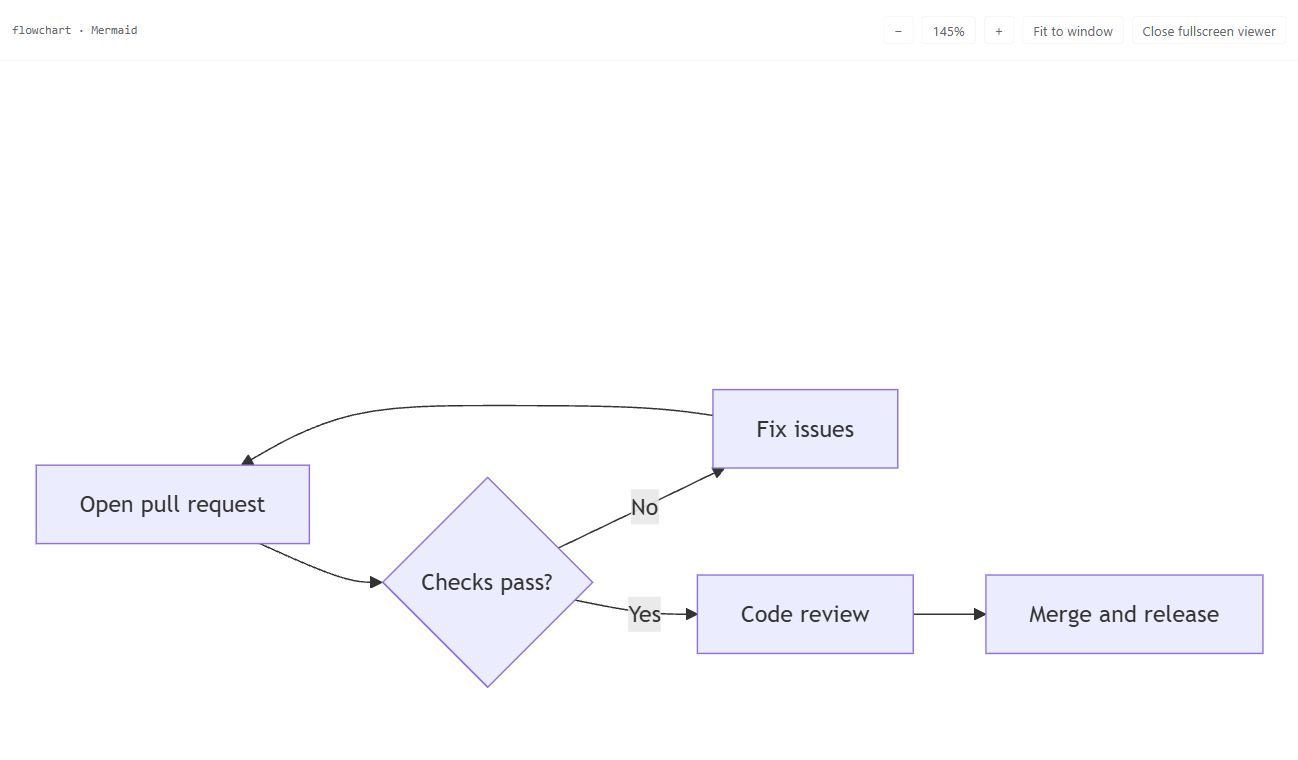
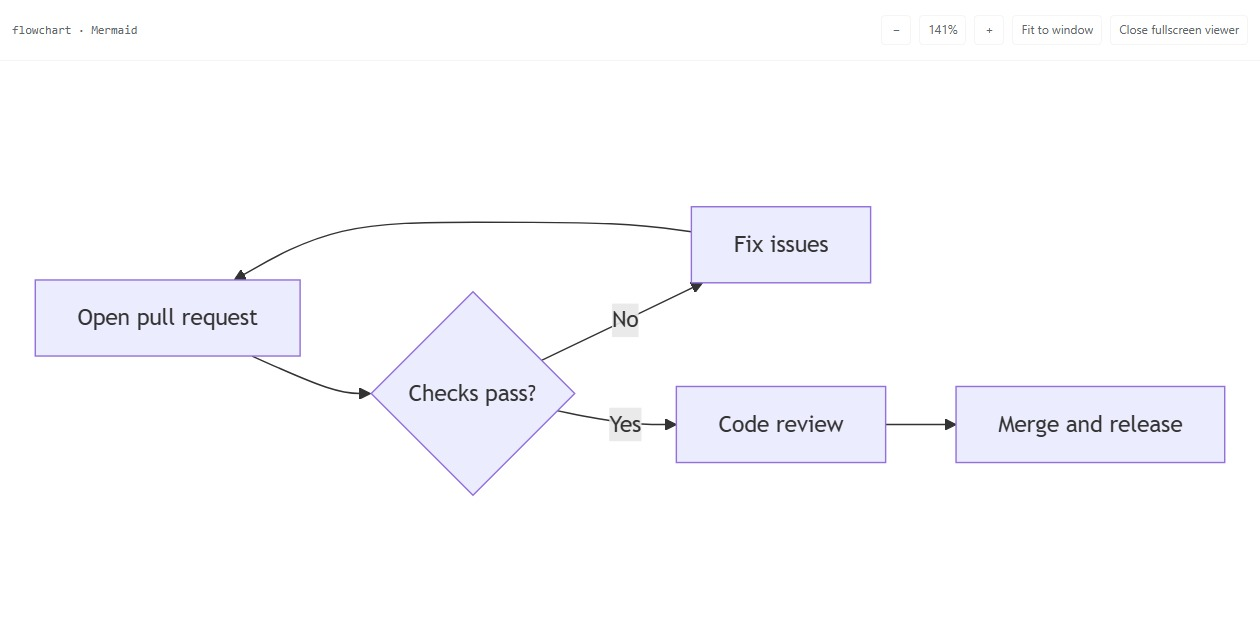
docs: refresh Mermaid screenshots and installation guide

diff --git a/README.md b/README.md
@@ -6,7 +6,7 @@ Render Mermaid code blocks as interactive SVG diagrams in **DeepSeek Harness Web
 
 [![npm version](https://img.shields.io/npm/v/dsh-mermaid.svg)](https://www.npmjs.com/package/dsh-mermaid)
 
-![English Mermaid diagram in a DSH conversation, with Code / Diagram, Fullscreen, and Download SVG controls](docs/images/conversation-en.jpg)
+![A Mermaid card with Diagram, Code and Edit tabs, canvas zoom, Fullscreen and an Export menu](docs/images/conversation-en.jpg)
 
 An English pull request workflow rendered in a DSH conversation. [View the Mermaid source](docs/examples/pull-request-workflow.mmd).
 
@@ -16,7 +16,7 @@ Requires DeepSeek Harness (DSH) and **Node.js 22.19 or later**. Commands below u
 
 ### 1. Install
 
-The npm release (`0.4.5`) supports diagram and code views, fullscreen, and SVG downloads. Inline editing, `.mmd` and PNG downloads, and rendering-style settings are covered below for the unreleased source build. See [Advanced usage](#advanced-usage) to install from GitHub.
+The screenshots and walkthrough use the current repository build. The npm `0.4.5` release includes Diagram and Code views, fullscreen, and SVG downloads. If your installed version lacks a feature shown here, see the [changelog](CHANGELOG.md) or [install the repository build](#advanced-usage).
 
 With a global `dsh` command, install the npm release into your Web profile:
 
@@ -30,7 +30,11 @@ If `dsh` is not on your PATH, invoke it through npx:
 npx.cmd --yes @deepseek-ai/dsh plugin --profile web add -w dsh-mermaid
 ```
 
-For **DSH Desktop**, use the `dsh` command supplied by the Desktop installation and replace `--profile web` with `--profile desktop`. The npm/npx DSH CLI cannot manage the reserved `desktop` profile on current Desktop versions. If the bundled command is not on your PATH, invoke `<DSH Desktop installation>\resources\runtime\cli\bin\dsh.cmd` on Windows.
+For **DSH Desktop** on Windows, use the CLI bundled with the app to manage its `desktop` profile. Replace `<DSH Desktop installation>` with your installation directory.
+
+```powershell
+& '<DSH Desktop installation>\resources\runtime\cli\bin\dsh.cmd' plugin --profile desktop add -w dsh-mermaid
+```
 
 DSH installs the package through pnpm and automatically registers its `dsh.bundle` declaration in the selected profile. Restart DSH Web or DSH Desktop after installation; for an already running Web session, refresh the browser page as well.
 
@@ -49,11 +53,11 @@ flowchart LR
 
 The block opens in **Diagram** view by default. Use **Diagram / Code / Edit** at the left of the card header to switch views. The plugin also recognizes `mermaidjs` and `mmd` fences; inline code is left unchanged.
 
-On hosts with the Markdown fence slot, an active reply shows the host's source block until generation finishes. Unlabelled fences can still be recognized from their Mermaid source. In **Code** view, source updates are shown immediately and the preview updates when you open **Diagram** or **Edit**.
+On hosts with the Markdown fence slot, a valid diagram can appear while the reply streams. The host's source remains visible until the first preview. Subsequent incomplete updates keep the last valid preview in place. Unlabelled fences can still be recognized from their Mermaid source. In **Code** view, source updates are shown immediately and the preview updates when you open **Diagram** or **Edit**.
 
 On older hosts, an incomplete code block can stay in **Diagram** while more source arrives. Open **Edit** to check its syntax immediately. Diagram previews are queued when their cards approach the viewport.
 
-### 3. Edit the source (source build)
+### 3. Edit the source
 
 - **Edit** opens a source panel alongside the diagram preview. On narrow cards the preview moves below the source. Changes re-render after a short debounce, and rendering messages appear in the preview panel.
 - The draft is local to this page and is never written back to the sent message. Refreshing the page or rebuilding the card discards it.
@@ -61,27 +65,35 @@ On older hosts, an incomplete code block can stay in **Diagram** while more sour
 - **Edit** remains available on errors. With a host-confirmed final code block, an initial syntax error opens **Edit** automatically.
 - Syntax errors show a line number when Mermaid reports one. Expand **Error details** for the full parser message.
 
-### 4. Explore and export
+![The inline editor with Mermaid source on the left and a live top-down diagram preview on the right](docs/images/editor-en.jpg)
 
-PNG and `.mmd` downloads, and inline canvas controls in this section require the source build.
+### 4. Explore and export
 
 - Wide diagrams open at a readable scale and can overflow the canvas. Use **− / Fit card / +** above the preview in **Diagram** and **Edit**. Double-click the canvas to zoom in or reset to fit. Zooming keeps the card height steady. Drag an overflowing diagram to pan horizontally or vertically.
 - **Fullscreen**, above the preview in **Diagram** and **Edit**, opens a viewer with mouse-wheel zoom, dragging, 100% reset, and fit-to-window controls. Press `Esc` to close it.
-- Open **Export** in the card header to download the entire diagram as SVG or PNG, or the current source as `.mmd`. The preview, fullscreen view, SVG and background PNG use the diagram palette's white or black background. Transparent PNG is also available. PNG uses up to 2× the SVG dimensions, subject to an 8,192-pixel edge and 16-megapixel area limit. File names include a short suffix derived from the source.
-- Fullscreen, SVG, and PNG require an up-to-date preview. The `.mmd` download remains available while the draft is rendering or contains an error.
+- Pinch to zoom and double-tap to toggle zoom on touchscreens, in the card and fullscreen.
+- Open **Export** in the card header to download the entire diagram as SVG or PNG, or the current source as `.mmd`. The preview, fullscreen view, SVG and background PNG use the diagram palette's white or black background. Transparent PNG is also available. PNG uses up to 3× the SVG dimensions, subject to an 8,192-pixel edge and 16-megapixel area limit. File names include a short suffix derived from the source.
+- Fullscreen, SVG, and PNG require an up-to-date preview after the response has finished generating. The `.mmd` download remains available while the preview is rendering or the source contains an error.
 - **Retry rendering** reruns the operation on the current source and uses a fresh module URL after a loading failure. A stalled asynchronous render times out after 15 seconds and the next queued diagram uses a fresh renderer instance. **Copy diagnostics** groups repeated failures for the current source and theme and includes the diagram type, Mermaid version, failure stage, available line number, and retry count.
+
+![The Export menu with SVG, transparent PNG, PNG with the theme background, and Mermaid source downloads](docs/images/export-en.jpg)
+
+<details>
+<summary>Fullscreen viewer screenshot</summary>
 
 ![Fullscreen English Mermaid diagram with zoom, reset, fit-to-window, and close controls](docs/images/fullscreen-en.jpg)
 
-## Global rendering styles (source version, unreleased)
+</details>
+
+## Global rendering styles
 
 The defaults remain `auto` color and `classic` look. Colors support `auto` (follow DSH), `default`, `dark`, `neutral`, `forest`, and `base` (custom). Choose `classic` or `handDrawn` independently. Hand-drawn strokes were confirmed for flowcharts and state diagrams; other types may have little visible difference.
 
-The following workflow was verified with **DSH 0.2.2-rc.3 on Windows Web and Desktop**:
-
-### Recommended: native settings form
+### Native settings form
 
 Open **Plugins → Installed plugins → dsh-mermaid** in the sidebar. The **Rendering style** form offers color and drawing-style selections without locating a file or writing YAML.
+
+![The Rendering style form with the Indigo / Slate example, light and dark tabs, and separate base and node fill colors](docs/images/render-settings-en.png)
 
 - Select **Custom** to edit fonts, font size, base color, node fill/text/border and line colors under Common / Light / Dark. Empty fields inherit common variables or Mermaid defaults.
 - **Base color** edits `primaryColor`; **Node fill** edits `mainBkg`, used by flowcharts and other types. They are saved independently without overwriting advanced settings, with a hint when a separate fill exists. Other diagram types may use dedicated variables.
@@ -110,7 +122,7 @@ The editor loads on demand and uses host form controls, buttons and typography. 
 3. Save as **UTF-8 without BOM**. The tested host watches and reloads the profile patch; restart DSH on other versions. Open pages retain their configuration snapshot, with no automatic refresh or cross-window synchronization.
 4. **Copy or download any card drafts first**, then refresh the page. Refreshing loses drafts. The user layer survives host restarts and bundle replacement; home-level `cordis.patch.yml` and command-line `--patch` overlays take precedence.
 
-Custom variables apply only to `theme: base`, grouped under `themeVariables.common / light / dark`. Merge the [complete indigo/slate example](docs/examples/render-style-indigo.patch.yml) into your existing patch. The active branch recursively overrides common values; arrays replace rather than concatenate. Missing branches use common and Mermaid-derived values. Unspecified `darkMode` follows DSH. Other color themes retain your stored variables but do not pass them to Mermaid. Card and fullscreen backgrounds follow DSH; check contrast when using fixed themes or custom colors.
+Custom variables apply to `theme: base`, grouped under `themeVariables.common / light / dark`. Use the [complete Indigo / Slate example](docs/examples/render-style-indigo.patch.yml) as a starting point. The active branch overrides common values recursively, and arrays replace inherited arrays. With a custom node fill or base color, Base infers `darkMode` from DSH. Typography-only changes keep the stock light node palette. An explicit `darkMode` takes precedence. Card and fullscreen backgrounds follow the diagram's effective palette.
 
 Only `theme`, `look`, and `themeVariables` are accepted. Variables allow nested plain objects, arrays, strings, booleans and finite numbers; null, unsafe prototype keys and non-JSON values are rejected. Limits: 64 KiB UTF-8 JSON, 8 levels counting each group object as level 1, 2,048 aggregate properties/elements across groups, and 8,192 characters per string. Mermaid may ignore unknown variables; structural validation does not guarantee styling or layout.
 
@@ -124,13 +136,10 @@ See [Compatibility](#compatibility) for tested hosts and platform limitations.
 
 ## Features
 
-- **Inline editing** — edit the Mermaid source in place with a debounced live preview, keeping the last good diagram while the draft is invalid or rendering.
-- **Streaming support** — discovers new blocks as responses arrive and prevents older renders from replacing newer content.
-- **Theme and language** — follows DSH's light/dark theme and uses English or Simplified Chinese based on the page and browser language.
-- **Large-diagram viewing** — fullscreen zoom and pan, with a stable toolbar position when switching views.
-- **Accessible controls** — keyboard focus management, render/download announcements, and accessible SVG names.
-- **Bundled runtime** — pins Mermaid `11.17.0`, loads it on demand from DSH's own origin, and requires no runtime CDN. Multiple diagrams render through a serial queue.
-- **Source fallback** — uses Mermaid's `securityLevel: strict`; on a render error the last successful diagram remains and the editor stays available. Diagrams exceeding 50,000 characters or 2,000 lines are rejected before rendering.
+- **Diagram types.** Use Mermaid's built-in types and `zenuml` sequence diagrams. DSH serves Mermaid `11.17.0` and its diagram modules from the same origin, with ZenUML loaded on demand.
+- **Flowchart label recovery.** The renderer can recover some unquoted parentheses and embedded quotes in labels. Code view and `.mmd` downloads preserve the original source.
+- **Render limits.** Diagrams use Mermaid's `strict` mode. The queue prioritizes cards near the viewport and rejects sources over 50,000 characters or 2,000 lines before rendering.
+- **Language and accessibility.** Controls use English or Simplified Chinese according to DSH and browser language. Cards provide keyboard focus handling, render announcements, and accessible SVG names.
 
 ## Update and uninstall
 
@@ -144,31 +153,30 @@ dsh plugin --profile web update -w dsh-mermaid
 dsh plugin --profile web remove -w dsh-mermaid
 ```
 
-For Web, you can replace the leading `dsh` with `npx.cmd --yes @deepseek-ai/dsh`. Desktop requires its bundled `dsh` command. Restart the corresponding DSH application afterward and refresh any open Web page. Saved profile settings are retained when the plugin is replaced; copy or download any diagram drafts before refreshing. See the [changelog](CHANGELOG.md) for release details.
+For Web, you can replace the leading `dsh` with `npx.cmd --yes @deepseek-ai/dsh`. Desktop uses its bundled CLI. Exit Windows Desktop from the system tray before updating and reopen it afterward. For Web, restart the host and refresh open pages. Saved profile settings survive plugin updates. Copy or download diagram drafts before refreshing. See the [changelog](CHANGELOG.md) for release details.
 
 ## Troubleshooting
 
 | Symptom | What to check |
 | --- | --- |
-| No Code / Diagram / Edit controls | Confirm that the plugin is installed in the profile you are using, restart DSH, and refresh the page. Use an explicit `mermaid` fenced block. |
+| No Diagram or Code controls | Check the active profile, restart DSH, and try an explicit `mermaid` fenced block. For Edit, also check that you installed the repository build or a release that includes it. |
 | Source appears with an error | Check the Mermaid syntax and the displayed error. Split diagrams that exceed 50,000 characters or 2,000 lines. The **Edit** view remains available for repairs. |
 | Preview says it was not updated | The draft is invalid or still rendering. The previous diagram stays available. Fix the source, wait for the preview to update, or use **Restore original**. |
-| Fullscreen or image export is unavailable | These actions require a current preview. The `.mmd` export saves the draft at any time. |
+| Fullscreen or image export is unavailable | Wait for the reply to finish and the preview to update. The card can still export the current source as `.mmd`. |
+| The renderer or a diagram module failed to load | Choose **Retry rendering**. If it repeats, attach the output of **Copy diagnostics** to your issue. |
 | GitHub installation reports a blocked build script | Follow the build-script guidance under **Install from GitHub** below. |
 
 ## Compatibility
 
-The current **unreleased source** was checked on **2026-11-17**:
+The repository build was checked on **2026-11-20** with DSH **`0.2.2-rc.5`** on Windows.
 
-| Environment | DSH version | Verified behavior |
-| --- | --- | --- |
-| Windows Web / Chrome | `0.2.1-rc.2`, Desktop-bundled `0.2.2-rc.3` | Eight diagram types, settings save/reload, fullscreen, SVG export and package upgrades. |
-| Windows Desktop native window | `0.2.2-rc.3` | Flowchart rendering/editing, settings save, fullscreen, native SVG saving and package upgrades. |
-| Linux x64 Web host / Windows Chrome | `0.2.1-rc.2` | Eight diagram types, settings save/reload, fullscreen, SVG export and package upgrades. |
+| Environment | Verified behavior |
+| --- | --- |
+| DSH Web from the Desktop bundle, Windows Chromium | Native code blocks, streaming and history replay, theme settings, and the screenshot workflows above. |
+| Windows Chromium regression suite | Inline editing, touch emulation, SVG and PNG exports, ZenUML, and module-load recovery. |
+| DSH Desktop, native Windows window | In-place plugin update with saved profile settings preserved. The application reopened with the Mermaid card controls available. |
 
-Upgrading from npm `0.4.5` to the current build retained saved rendering settings and other profile overrides. The Linux host ran on Node.js 24.22.3 in a Debian container; a Linux-native browser and macOS were not tested.
-
-The source build pairs a fixed theme with a matching diagram background. In `base`, changing typography alone keeps the default light node palette. Custom node palettes can set `darkMode` explicitly and should be checked in both host modes. The earlier screenshots above remain from the 2026-10-28 Web check.
+The earlier Linux smoke test used a Debian Web host with Windows Chromium. See [screenshot provenance](docs/images/README.md) for the current capture environment and sample source.
 
 DSH is a developer preview; newer versions may change its plugin loader or Markdown DOM. When [reporting an issue](https://github.com/MrmoLabs/dsh-mermaid/issues), include your DSH, plugin, and Node.js versions, Web/Desktop profile, and a minimal Mermaid example. Remove private conversation content before sharing.
 
@@ -183,10 +191,10 @@ For normal use, prefer the npm release. To install the latest repository source,
 npx.cmd -y github:MrmoLabs/dsh-mermaid install
 ```
 
-For DSH Desktop:
+For DSH Desktop on Windows, use its bundled CLI and replace the example installation directory.
 
 ```powershell
-npx.cmd -y github:MrmoLabs/dsh-mermaid install --profile desktop
+& '<DSH Desktop installation>\resources\runtime\cli\bin\dsh.cmd' plugin --profile desktop add -w --save-exact github:MrmoLabs/dsh-mermaid
 ```
 
 The repository installer asks DSH to install the GitHub source into the selected profile and builds the package during installation. If pnpm blocks a build script, add the exact package key shown by pnpm to `allowBuilds` in that profile's `pnpm-workspace.yaml`, then run the command again. Restart the corresponding DSH application afterward.
@@ -200,7 +208,7 @@ The installer supports English and Simplified Chinese. It checks `DSH_MERMAID_LA
 
 The Mermaid runtime runs in the DSH Web browser or Desktop renderer, where `window` and `document` are available. The Node.js host serves the bundled file over HTTP. The Node.js version requirement covers installation, builds, and the plugin host; this package does not currently provide a supported Node.js validation API.
 
-`lib/mermaid-runtime.js` is an internal browser bundle. It is shipped for the plugin's same-origin runtime route and is not a public package export. Resolving `dsh-mermaid/package.json` and constructing a path to this file depends on internal packaging details that may change.
+The plugin serves the renderer and its diagram modules from the same origin. It loads diagram modules on demand, including the ZenUML extension. `lib/mermaid-runtime.js` and `lib/mermaid-chunks/` are internal assets and may change between builds.
 
 Integrators experimenting with server-side parsing must account for these requirements:
 

diff --git a/README.zh-CN.md b/README.zh-CN.md
@@ -6,7 +6,7 @@
 
 [![npm version](https://img.shields.io/npm/v/dsh-mermaid.svg)](https://www.npmjs.com/package/dsh-mermaid)
 
-![DSH 会话中的英文 Mermaid 图表，包含代码 / 图形切换、全屏和 SVG 下载控件](docs/images/conversation-en.jpg)
+![DSH 会话中的 Mermaid 卡片，包含图形、代码、编辑切换，以及画布缩放、全屏和导出菜单](docs/images/conversation-en.jpg)
 
 英文 Pull Request 工作流在 DSH 会话中的实际效果。[查看 Mermaid 源码](docs/examples/pull-request-workflow.mmd)。
 
@@ -16,7 +16,7 @@
 
 ### 1. 安装插件
 
-npm 发布版（`0.4.5`）支持图形和代码视图、全屏和 SVG 下载。下文的内联编辑、`.mmd` 和 PNG 下载以及渲染风格设置适用于尚未发布的源码版。GitHub 安装方式见[进阶使用](#进阶使用)。
+本文截图和功能说明使用当前仓库构建。npm `0.4.5` 发布版支持图形和代码视图、全屏及 SVG 下载。如果你安装的版本缺少下文某项功能，可查看[更新日志](CHANGELOG.md)，或[安装 GitHub 源码版](#进阶使用)。
 
 已全局安装 `dsh` 时，将 npm 发布版安装到 Web profile：
 
@@ -30,7 +30,11 @@ dsh plugin --profile web add -w dsh-mermaid
 npx.cmd --yes @deepseek-ai/dsh plugin --profile web add -w dsh-mermaid
 ```
 
-使用 **DSH Desktop** 时，请使用 Desktop 安装包随附的 `dsh` 命令，并将 `--profile web` 替换为 `--profile desktop`。当前 Desktop 版本的 `desktop` profile 不能通过 npm/npx 版 DSH CLI 管理。Windows 用户若未配置 PATH，可直接调用 `<DSH Desktop 安装目录>\resources\runtime\cli\bin\dsh.cmd`。
+Windows **DSH Desktop** 用户请用应用随附的 CLI 管理 `desktop` profile。将 `<DSH Desktop 安装目录>` 替换为实际路径。
+
+```powershell
+& '<DSH Desktop 安装目录>\resources\runtime\cli\bin\dsh.cmd' plugin --profile desktop add -w dsh-mermaid
+```
 
 DSH 会通过 pnpm 安装包，并根据包内的 `dsh.bundle` 声明自动注册到所选 profile。安装后重启 DSH Web 或 DSH Desktop；已经打开的 Web 页面也请刷新。
 
@@ -49,11 +53,11 @@ flowchart LR
 
 代码块默认显示为**图形**。用卡片顶部左侧的**图形 / 代码 / 编辑**切换视图。插件也识别 `mermaidjs`、`mmd` 围栏标记，不处理行内代码。
 
-支持 Markdown 围栏插槽的宿主会在生成中显示原始代码块，生成结束后再绘图。无语言标记的围栏仍可按 Mermaid 源码识别。**代码**视图会立即更新原文，切到**图形**或**编辑**时更新预览。
+支持 Markdown 围栏插槽的宿主可在回复生成中绘制预览。首张图出现前显示宿主源码，后续源码尚不完整时保留上一张有效预览。无语言标记的围栏仍可按 Mermaid 源码识别。**代码**视图会立即更新原文，切到**图形**或**编辑**时更新预览。
 
 旧宿主遇到可能尚未写完的源码时，会留在**图形**视图等待更新。也可以打开**编辑**立即检查语法。图表卡片接近视口后才进入渲染队列。
 
-### 3. 编辑源码（源码版）
+### 3. 编辑源码
 
 - **编辑**并排显示源码和图形预览。卡片较窄时，预览移到源码下方。修改后预览会自动更新，渲染提示显示在预览面板内。
 - 草稿仅保存在当前页面，不会写回已发送的消息。刷新页面或卡片重建后草稿会丢失。
@@ -61,29 +65,35 @@ flowchart LR
 - 出现错误后仍可打开**编辑**原地修复。宿主确认代码块已生成完毕时，首次语法错误会自动打开**编辑**。
 - Mermaid 提供行号时，语法提示会标出出错行。展开**错误详情**可以查看解析器输出。
 
-### 4. 查看与导出
+![内联编辑器左侧显示 Mermaid 源码，右侧显示调整为从上到下布局后的实时预览](docs/images/editor-en.jpg)
 
-本节的 PNG 和 `.mmd` 下载以及卡片内画布控件需要源码版。
+### 4. 查看与导出
 
 - 宽图以便于阅读的比例打开，超出画布的部分可拖动查看。**图形**和**编辑**视图都可用预览上方的 **− / 适应卡片 / +** 缩放。双击画布可放大或恢复适应，卡片高度保持稳定。
 - **图形**和**编辑**视图都可从预览上方进入**全屏**，支持鼠标滚轮缩放、拖拽、恢复 100% 和适应窗口。按 `Esc` 关闭。
-- 点击卡片顶部的**导出**，可将完整图表保存为 SVG 或 PNG，或将当前源码保存为 `.mmd`。卡片、全屏、SVG 和带背景的 PNG 会按图表配色使用白底或黑底。PNG 也可选透明背景。导出分辨率最高为 SVG 原始尺寸的 2 倍，最长边不超过 8,192 像素，总面积不超过 1,600 万像素。文件名带有根据源码生成的短后缀。
-- 全屏、SVG 和 PNG 需要与当前草稿一致的预览。草稿正在渲染或有错误时，仍可下载 `.mmd`。
+- 触屏上可以在卡片和全屏视图内双指缩放，双击切换缩放倍率。
+- 点击卡片顶部的**导出**，可将完整图表保存为 SVG 或 PNG，或将当前源码保存为 `.mmd`。卡片、全屏、SVG 和带背景的 PNG 会按图表配色使用白底或黑底。PNG 也可选透明背景。导出分辨率最高为 SVG 原始尺寸的 3 倍，最长边不超过 8,192 像素，总面积不超过 1,600 万像素。文件名带有根据源码生成的短后缀。
+- 回复生成结束且预览与当前源码一致后，即可全屏或导出 SVG、PNG。卡片预览正在渲染或源码有错误时，仍可下载 `.mmd`。
 - **重试渲染**会用当前源码重新运行失败的操作。运行时加载失败后，重试会使用新的模块地址。异步渲染等待超过 15 秒时，下一张排队的图会使用新运行时实例。**复制诊断**合并当前源码和主题下的重复失败，包含图种、Mermaid 版本、失败阶段、可用行号和重试次数。
+
+![导出菜单中的 SVG、透明 PNG、带主题背景的 PNG 和 Mermaid 源码选项](docs/images/export-en.jpg)
+
+<details>
+<summary>查看全屏截图</summary>
 
 ![英文 Mermaid 图表的全屏视图，包含缩放、恢复比例、适应窗口和关闭控件](docs/images/fullscreen-en.jpg)
 
-## 全局渲染风格（源码版，尚未发布）
+</details>
+
+## 全局渲染风格
 
 不配置时保持 `auto` 配色与 `classic` 绘图风格。配色支持 `auto`（跟随 DSH）、`default`、`dark`、`neutral`、`forest`、`base`（自定义）；绘图风格独立支持 `classic` 和 `handDrawn`。手绘在流程图、状态图上已确认有笔触变化，其他类型可能没有明显效果。
 
-以下操作已在 **DSH 0.2.2-rc.3 的 Windows Web 和 Desktop** 中验证：
-
-### 推荐：原生设置表单
+### 原生设置表单
 
 打开侧边栏 **插件 → 已安装插件 → dsh-mermaid**，在“渲染风格”中选择配色主题和绘图风格，无需查找或手写 YAML。
 
-![DSH 原生 Mermaid 渲染风格设置，包含配色与绘图风格选择、常用颜色输入和高级 JSON 编辑入口](docs/images/render-settings-zh-CN.png)
+![渲染风格设置中的 Indigo / Slate 示例、明暗配色标签页、基础主色和独立节点填充设置](docs/images/render-settings-en.png)
 
 - 选择**自定义**后，可在公共／浅色／深色标签页设置字体、字号、基础主色、节点填充、文字、边框和连线颜色。留空继承公共变量或 Mermaid 默认值。
 - **基础主色**对应 `primaryColor`，**节点填充**对应流程图等类型使用的 `mainBkg`。两者独立保存，不会擅自覆盖高级设置；存在独立填充时会显示说明。其他图表可能使用专属变量。
@@ -112,7 +122,7 @@ flowchart LR
 3. 保存为 **UTF-8 无 BOM**。目标版本会通过 profile 文件监视器重载配置；其他宿主版本请重启对应 DSH 应用。当前页面保持原配置快照，不自动刷新，也不跨窗口同步。
 4. **先复制或下载需要保留的卡片草稿**，再刷新页面以应用新快照。刷新会丢失草稿。配置保存在用户层，重启或替换插件 bundle 不会覆盖它；家目录级 `cordis.patch.yml` 和启动时的 `--patch` 覆盖层优先级更高。
 
-自定义仅在 `theme: base` 下生效，使用 `themeVariables.common / light / dark` 三组；[完整 indigo/slate 明暗配置示例](docs/examples/render-style-indigo.patch.yml)可合并到现有用户层文件。公共变量和当前模式分支递归合并，模式分支优先；数组整体替换。缺少分支时只使用公共值和 Mermaid 派生值；未指定 `darkMode` 时采用 DSH 明暗状态。其他配色保留配置中的变量，但不传给 Mermaid。容器与全屏背景始终跟随 DSH，固定主题或自定义颜色需自行确认对比度。
+自定义变量用于 `theme: base`，分为 `themeVariables.common / light / dark` 三组。可从[完整 Indigo / Slate 明暗配置示例](docs/examples/render-style-indigo.patch.yml)开始。当前明暗分支递归覆盖公共值，数组整体替换。自定义节点填充或基础主色后，Base 会根据 DSH 界面明暗推导 `darkMode`。仅修改字体时保留默认浅色节点配色，显式指定的 `darkMode` 优先生效。卡片和全屏使用图表实际配色对应的底色。
 
 配置只允许 `theme`、`look`、`themeVariables`。变量可包含嵌套普通对象、数组、字符串、布尔值和有限数字；禁止 null、危险原型键等非普通 JSON 数据。限制为 UTF-8 JSON 64 KiB、每组从第 1 层计最多 8 层、三组合计 2,048 个属性或元素、单字符串 8,192 字符。未知变量可能被 Mermaid 忽略，结构通过不保证颜色或布局正确。
 
@@ -126,13 +136,10 @@ flowchart LR
 
 ## 功能特性
 
-- **内联编辑**：在卡片内直接修改 Mermaid 源码，防抖更新预览；草稿无效或渲染期间保留上次成功的图。
-- **流式输出适配**：随回复发现新代码块，避免旧的异步渲染覆盖新内容。
-- **主题与语言**：跟随 DSH 浅色 / 深色主题，根据页面和浏览器语言显示简体中文或英文。
-- **大型图表查看**：全屏缩放与拖拽，切换视图时保持工具栏位置稳定。
-- **无障碍支持**：管理键盘焦点，播报渲染与下载状态，为 SVG 提供可访问名称。
-- **内置运行时**：固定打包 Mermaid `11.17.0`，从 DSH 同源按需加载，不依赖运行时 CDN；多图通过串行队列渲染。
-- **源码回退**：使用 Mermaid `securityLevel: strict`；渲染失败时保留上次成功的图，编辑器仍可用。单图超过 50,000 字符或 2,000 行时，在渲染前拒绝处理。
+- **图种支持**。支持 Mermaid 内置图种与 `zenuml` 时序图。Mermaid `11.17.0` 和图种模块由 DSH 同源提供，ZenUML 按需加载。
+- **流程图标签容错**。可修复部分未加引号的括号和标签内嵌引号。代码视图以及 `.mmd` 导出保留原始源码。
+- **渲染限制**。使用 Mermaid `strict` 模式，优先绘制视口附近的卡片。单图超过 50,000 字符或 2,000 行时，在渲染前拒绝处理。
+- **语言与无障碍**。界面按 DSH 和浏览器语言显示简体中文或英文，并提供键盘焦点管理、状态播报和 SVG 可访问名称。
 
 ## 更新与卸载
 
@@ -146,31 +153,30 @@ dsh plugin --profile web update -w dsh-mermaid
 dsh plugin --profile web remove -w dsh-mermaid
 ```
 
-Web 用户可将开头的 `dsh` 替换为 `npx.cmd --yes @deepseek-ai/dsh`；Desktop 用户应使用其随附的 `dsh` 命令。操作完成后重启对应的 DSH 应用，并刷新已打开的 Web 页面。替换插件会保留已保存的 profile 设置；刷新前请先复制或下载需要保留的图表草稿。版本变化见[更新日志](CHANGELOG.md)。
+Web 用户可将开头的 `dsh` 替换为 `npx.cmd --yes @deepseek-ai/dsh`。Desktop 用户应使用应用随附的 CLI，并在更新前从 Windows 系统托盘退出 Desktop，安装后再打开。Web 更新后需重启宿主并刷新已打开的页面。更新会保留已保存的 profile 设置，刷新前请先复制或下载图表草稿。版本变化见[更新日志](CHANGELOG.md)。
 
 ## 常见问题
 
 | 现象 | 排查方法 |
 | --- | --- |
-| 没有出现代码 / 图形 / 编辑按钮 | 确认插件安装在当前使用的 profile 中，重启 DSH 并刷新页面；使用明确标记为 `mermaid` 的围栏代码块。 |
+| 没有出现图形或代码按钮 | 检查当前 profile，重启 DSH，再试明确标记为 `mermaid` 的围栏代码块。若仅缺少编辑按钮，请确认安装的是仓库构建或包含编辑功能的发布版。 |
 | 显示源码和错误提示 | 根据提示检查 Mermaid 语法；超过 50,000 字符或 2,000 行时，拆分为多张图。**编辑**视图仍可继续修复。 |
 | 提示预览未更新 | 草稿无效或仍在渲染。插件会保留上次成功的图。修正源码、等待预览更新，或点击**恢复原文**。 |
-| 无法全屏或导出图片 | 请先让预览更新成功。当前草稿可以随时导出为 `.mmd`。 |
+| 无法全屏或导出图片 | 请等回复结束且预览更新成功。仍可从卡片将当前源码导出为 `.mmd`。 |
+| 渲染器或图种模块加载失败 | 点击**重试渲染**。若反复失败，可将**复制诊断**的结果附在 Issue 中。 |
 | GitHub 安装提示构建脚本被阻止 | 参照下方“安装 GitHub 源码版”中的构建脚本说明。 |
 
 ## 兼容性
 
-当前**尚未发布的源码**于 **2026-11-17** 完成以下验证：
+**2026-11-20** 在 Windows 上使用 DSH **`0.2.2-rc.5`** 验证了当前仓库构建。
 
-| 环境 | DSH 版本 | 已验证功能 |
-| --- | --- | --- |
-| Windows Web / Chrome | `0.2.1-rc.2`、Desktop 随附的 `0.2.2-rc.3` | 八类图表、设置保存与重载、全屏、SVG 导出及包升级。 |
-| Windows Desktop 原生窗口 | `0.2.2-rc.3` | 流程图渲染与编辑、设置保存、全屏、原生 SVG 保存及包升级。 |
-| Linux x64 Web 宿主 / Windows Chrome | `0.2.1-rc.2` | 八类图表、设置保存与重载、全屏、SVG 导出及包升级。 |
+| 环境 | 已验证功能 |
+| --- | --- |
+| Desktop 随附的 DSH Web 宿主、Windows Chromium | 原生代码块、流式预览和历史回放、主题设置，以及上文截图展示的操作。 |
+| Windows Chromium 回归套件 | 内联编辑、模拟触控交互、SVG 和 PNG 导出、ZenUML、分包加载失败恢复。 |
+| Windows DSH Desktop 原生窗口 | 原位更新插件并保留已保存的 profile 设置，重新打开应用后出现 Mermaid 图卡控件。 |
 
-从 npm `0.4.5` 升级到当前构建后，已保存的渲染设置和其他 profile 覆盖项均保留。Linux 宿主使用 Debian 容器与 Node.js 24.22.3；未验证 Linux 原生浏览器或 macOS。
-
-源码版会为固定配色选择匹配的图表底色。在 `base` 中仅调整字体会保留默认的浅色节点配色。自定义节点配色可以显式设置 `darkMode`，并在宿主的浅色、深色模式下分别检查。上方旧截图仍来自 2026-10-28 的 Web 验证。
+此前的 Linux 冒烟测试使用 Debian Web 宿主和 Windows Chromium。当前截图的环境及示例源码见[截图说明](docs/images/README.md)。
 
 DSH 仍处于开发预览阶段，新版可能调整插件加载器或 Markdown DOM。[反馈问题](https://github.com/MrmoLabs/dsh-mermaid/issues)时，请附上 DSH、插件和 Node.js 版本、Web / Desktop profile，以及最小 Mermaid 示例；分享前请移除会话中的私人内容。
 
@@ -185,10 +191,10 @@ DSH 仍处于开发预览阶段，新版可能调整插件加载器或 Markdown 
 npx.cmd -y github:MrmoLabs/dsh-mermaid install
 ```
 
-安装到 DSH Desktop：
+安装到 Windows DSH Desktop 时，请使用应用随附的 CLI，先替换示例中的安装目录。
 
 ```powershell
-npx.cmd -y github:MrmoLabs/dsh-mermaid install --profile desktop
+& '<DSH Desktop 安装目录>\resources\runtime\cli\bin\dsh.cmd' plugin --profile desktop add -w --save-exact github:MrmoLabs/dsh-mermaid
 ```
 
 仓库安装器会调用 DSH，把 GitHub 源安装到所选 profile，并在安装阶段构建。如果 pnpm 阻止了构建脚本，请把提示中的精确包名加入该 profile 的 `pnpm-workspace.yaml` 的 `allowBuilds` 中，再重新执行命令。完成后重启对应的 DSH 应用。
@@ -202,7 +208,7 @@ npx.cmd -y github:MrmoLabs/dsh-mermaid install --profile desktop
 
 Mermaid 运行时在 DSH Web 浏览器或 Desktop 渲染进程中执行，这些环境具有 `window` 和 `document`。Node.js 宿主通过 HTTP 提供打包文件。Node.js 版本要求适用于安装、构建和插件宿主；本项目目前未提供受支持的 Node.js 校验 API。
 
-`lib/mermaid-runtime.js` 是内部浏览器 bundle，随包发布是为了供插件的同源运行时路由使用，并非公开的包导出。通过解析 `dsh-mermaid/package.json` 再拼接路径访问此文件，会依赖可能变化的内部打包结构。
+插件通过同源路由提供渲染器和图种模块，按需加载图种及 ZenUML 扩展。`lib/mermaid-runtime.js` 和 `lib/mermaid-chunks/` 是内部资源，可能随构建变化。
 
 尝试在服务端复用解析器时，需要处理以下条件：
 

diff --git a/docs/images/README.md b/docs/images/README.md
@@ -1,11 +1,11 @@
 # README screenshots
 
-- `conversation-en.jpg`: the Mermaid card inside a DSH conversation.
-- `fullscreen-en.jpg`: the same diagram in the plugin's fullscreen viewer.
-- `render-settings-zh-CN.png`: the Mermaid rendering-style settings page in Simplified Chinese.
+Captured on 2026-11-20 in Windows Chromium using the Web host bundled with DSH Desktop `0.2.2-rc.5`. The isolated profile used the same `dsh-mermaid` package as the local Desktop build (`8dfbf132c40a`), with English controls and the light theme. The example conversation came from a local fixture. [Diagram source](../examples/pull-request-workflow.mmd)
 
-The conversation and fullscreen images show dsh-mermaid 0.4.4 in DSH Web 0.2.1-rc.3 on 2026-10-28, with English labels and the light theme. The settings image shows the unreleased rendering-style feature in DSH Web 0.2.2-rc.3 on 2026-11-16.
+- [Conversation card](conversation-en.jpg) shows the rendered pull request workflow and the card controls.
+- [Inline editor](editor-en.jpg) shows the preview after changing the diagram direction from `LR` to `TD`.
+- [Export menu](export-en.jpg) shows SVG, both PNG options, and `.mmd`.
+- [Fullscreen viewer](fullscreen-en.jpg) shows the original workflow fitted to the viewport.
+- [Rendering settings](render-settings-en.png) shows the Light tab after loading the Indigo / Slate example.
 
-All images are real application captures using sample content in isolated profiles. The conversation's diagram source is in [pull-request-workflow.mmd](../examples/pull-request-workflow.mmd).
-
-For current features and tested environments, see the main [README](../../README.md#compatibility).
+See the [README compatibility section](../../README.md#compatibility) for the broader verification coverage.
